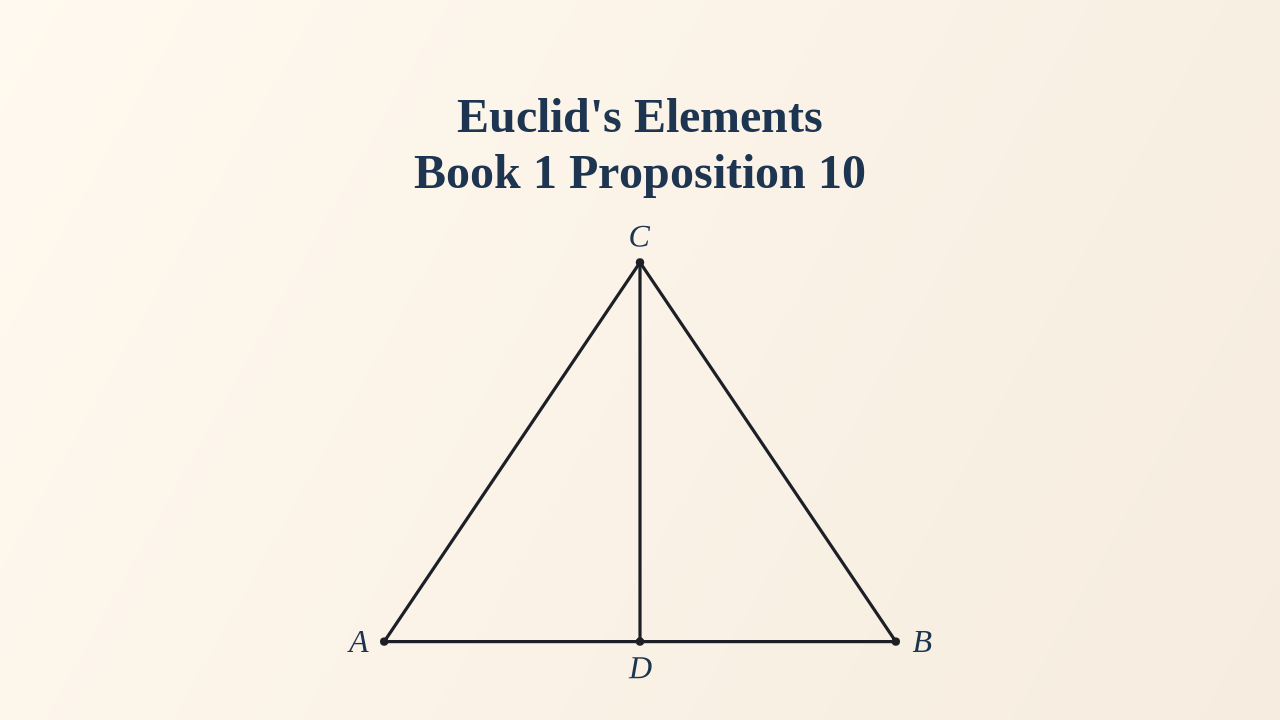
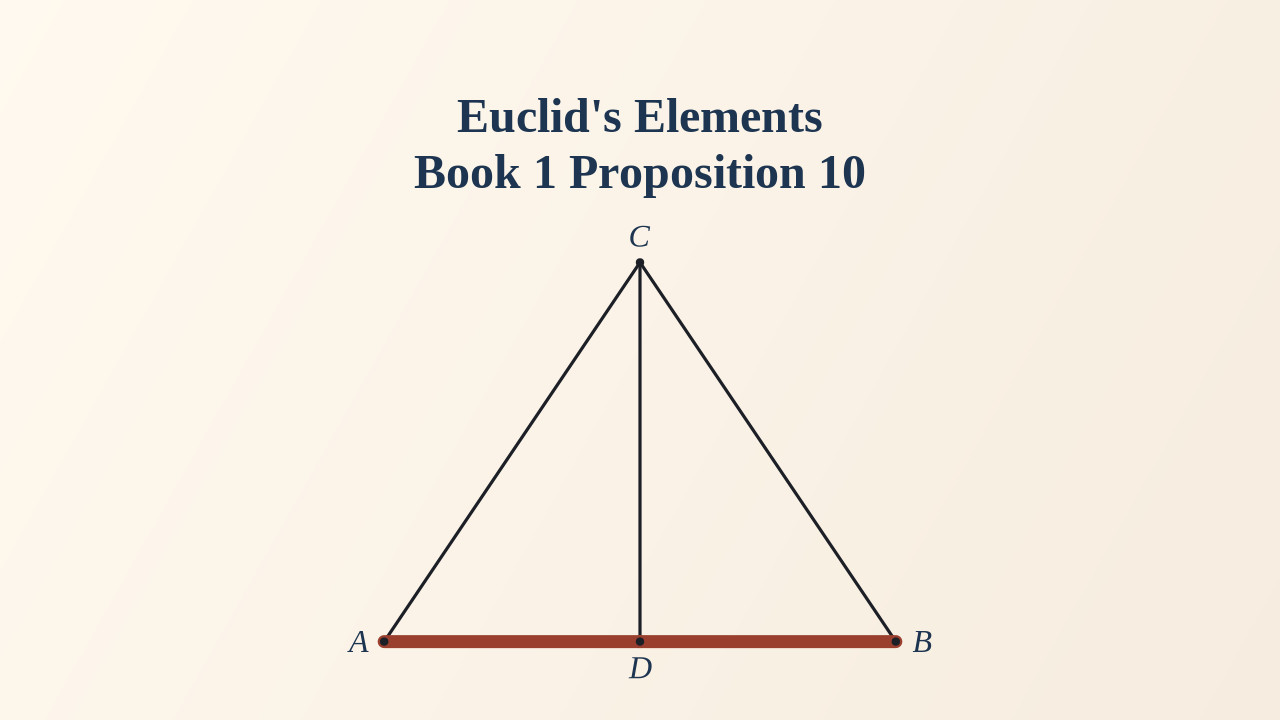
Mark the bisected angle and the bisected line on the I.9 and I.10 thumbnails. (#65)
Proposition 9 cuts a given rectilinear angle in half, not the triangle. DAF and EAF take one yellow pie. D, E, DE, and equilateral DEF stay the construction on the plate. Proposition 10 cuts a given finite straight-line in half. AD and BD take the brick. Equilateral ABC and the bisector CD stay the construction.

Changed region(s): [[0.2812, 0.8556, 0.7188, 0.9167]]

diff --git a/scripts/youtube_book1_thumbs.py b/scripts/youtube_book1_thumbs.py
@@ -44,8 +44,17 @@ angles encompassed by those straight-lines equal. The card keeps the plate
 the three equalities and that angle. AB and DE take the brick. AC and DF
 take the rose. BC and EF, the bases, take a bronze. ∠BAC and ∠EDF take
 one yellow pie. A wash of ABC and DEF would light the triangles, which
-the proposition does not claim. Labels stay navy, the color every other
-card uses.
+the proposition does not claim. I.9 cuts a given rectilinear angle in
+half. The card keeps the plate — D, E, AD, AE, DE and the equilateral
+DEF are the construction, not the subject — and marks the cut. ∠DAF
+and ∠EAF, the two halves, take one yellow pie. A wash of BAC would
+light the angle the proposition cuts, not the halves, and a brick on
+AD and AE would light the construction. I.10 cuts a given finite
+straight-line in half. The card keeps the plate — equilateral ABC and
+the bisector CD are the construction, not the subject — and marks the
+cut. AD and BD, the two halves, take the brick. A wash of ABC would
+light the triangle, which the proposition does not claim. Labels stay
+navy, the color every other card uses.
 """
 
 from __future__ import annotations
@@ -130,6 +139,9 @@ LINES: dict[int, list[tuple[str, str]]] = {
     # AB = DE, the first of the two sides. AC = DF and the bases are
     # LINE_EXTRA: three equalities, three hues.
     8: [("A", "B"), ("D", "E")],
+    # AD = BD, the two halves of the given AB. D lies on AB, so each
+    # half is the piece, and the whole chord is not a third stroke.
+    10: [("A", "D"), ("B", "D")],
 }
 
 # Further line equalities, each a hue that is not the angle yellow.
@@ -159,6 +171,8 @@ ANGLES: dict[int, list[list[tuple[str, str, str]]]] = {
     6: [[("A", "B", "C"), ("A", "C", "B")]],
     # ∠BAC = ∠EDF, the angles the equal sides encompass. One set.
     8: [[("B", "A", "C"), ("E", "D", "F")]],
+    # ∠DAF = ∠EAF, the two halves of the given angle. One set.
+    9: [[("D", "A", "F"), ("E", "A", "F")]],
     # ∠D = ∠FEC. One set, so one mark. Arm ends of D are not lettered.
     42: [[("Dleft", "D", "Dright"), ("F", "E", "C")]],
 }
@@ -173,6 +187,10 @@ ANGLE_MARK: dict[int, list[tuple[tuple[int, int, int], float]]] = {
     6: [(PIE, 0.32)],
     # Short of the rose sides, so the pie is the angle and not another stroke.
     8: [(PIE, 0.20)],
+    # Short of DE, so the two halves read as angles and not as a wash of
+    # the triangle. ∠BAC is narrow on the plate, so the reach is longer
+    # than the I.8 pie or the halves disappear at thumbnail size.
+    9: [(PIE, 0.55)],
     # Rose, not yellow: the pie sits on the gold parallelogram, and yellow
     # reads as more of that wash. One plate radius for the pair — a fraction
     # of each arm would draw the longer angle larger. Short of the letter
